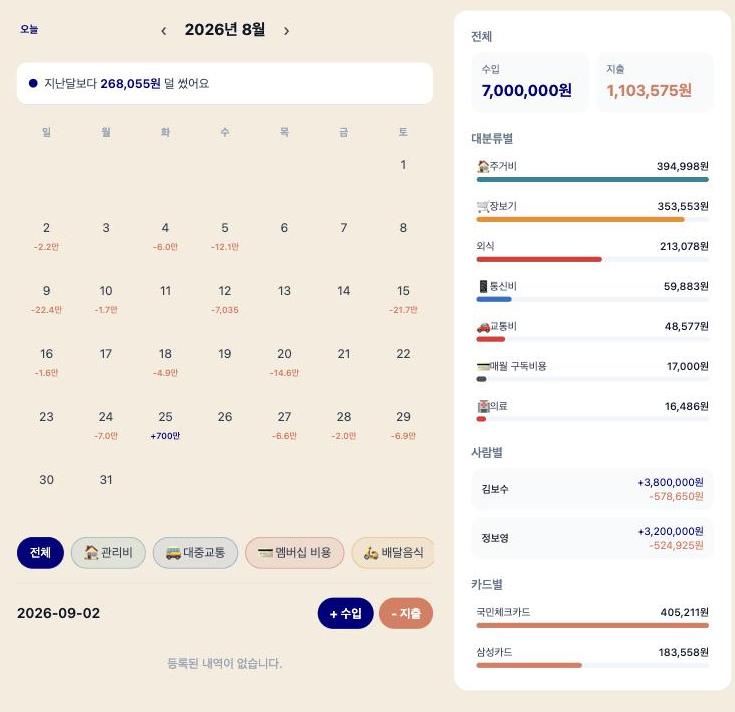
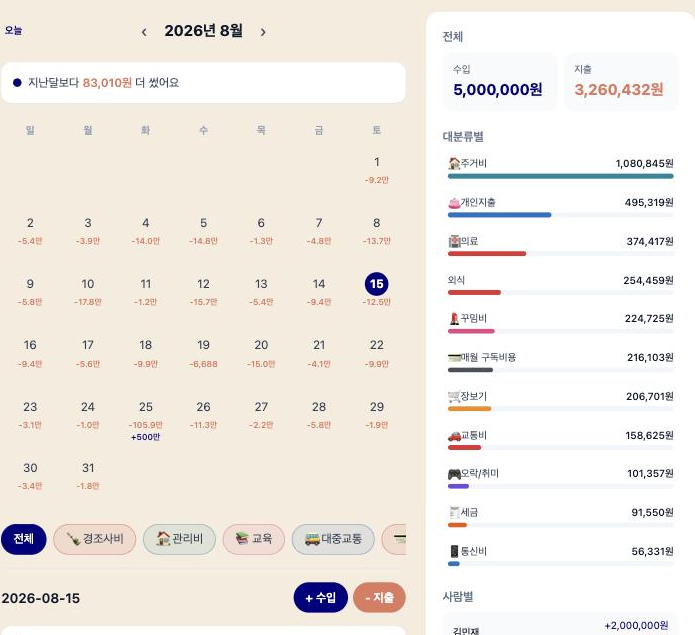
welcome 마케팅 이미지 3장 → 5장으로 확대, 관리자 페이지에 앱으로 돌아가기 버튼 추가
- 캘린더/통계/카테고리 관리 스크린샷과 자산/명세서 업로드 GIF를 테스트 계정
  데이터로 새로 촬영해 welcome 캐러셀에 반영
- 관리자 대시보드 상단에 로그아웃 옆 "앱으로 돌아가기" 버튼 추가 (useGoHome 재사용)

Claude-Session: https://claude.ai/code/session_019RvFZpeu3MEjPGcNT2ZUFz

diff --git a/src/app/admin/(dashboard)/_layout.tsx b/src/app/admin/(dashboard)/_layout.tsx
@@ -4,6 +4,7 @@ import { useEffect, useState } from 'react';
 import { ActivityIndicator, Pressable, Text, View } from 'react-native';
 import Svg, { Circle, Path } from 'react-native-svg';
 
+import { useGoHome } from '@/lib/useGoHome';
 import { useAdminAuthStore } from '@/store/adminAuthStore';
 import { useAuthStore } from '@/store/authStore';
 
@@ -38,6 +39,7 @@ export default function AdminDashboardLayout() {
   const logout = useAdminAuthStore((state) => state.logout);
   const mainLogout = useAuthStore((state) => state.logout);
   const pathname = usePathname();
+  const goHome = useGoHome();
   const [hydrationStarted, setHydrationStarted] = useState(false);
 
   useEffect(() => {
@@ -99,10 +101,16 @@ export default function AdminDashboardLayout() {
               })}
             </View>
           </View>
-          <Pressable onPress={handleLogout} className="flex-row items-center gap-1.5 px-2 py-2">
-            <Ionicons name="log-out-outline" size={16} color="#ffffffb3" />
-            <Text className="text-sm font-medium text-white/70">로그아웃</Text>
-          </Pressable>
+          <View className="flex-row items-center gap-1">
+            <Pressable onPress={goHome} className="flex-row items-center gap-1.5 px-2 py-2">
+              <Ionicons name="arrow-back-outline" size={16} color="#ffffffb3" />
+              <Text className="text-sm font-medium text-white/70">앱으로 돌아가기</Text>
+            </Pressable>
+            <Pressable onPress={handleLogout} className="flex-row items-center gap-1.5 px-2 py-2">
+              <Ionicons name="log-out-outline" size={16} color="#ffffffb3" />
+              <Text className="text-sm font-medium text-white/70">로그아웃</Text>
+            </Pressable>
+          </View>
         </View>
       </View>
       <Slot />

diff --git a/src/app/(auth)/welcome.tsx b/src/app/(auth)/welcome.tsx
@@ -20,9 +20,19 @@ const PREVIEWS = [
     caption: '거래를 처음 기록한 달부터 이번 달까지, 카테고리별 흐름을 표로 한눈에 볼 수 있어요.',
   },
   {
-    image: require('../../../assets/marketing/preview-portfolio.png'),
+    image: require('../../../assets/marketing/preview-portfolio.gif'),
     title: '자산은 모두 한 곳에',
-    caption: '부동산·차량·주식·코인·대출까지, 실시간 시세와 손익률을 함께 확인하세요.',
+    caption: '부동산·차량·주식·코인·금·은·대출까지, 실시간 시세와 1년 추이를 함께 확인하세요.',
+  },
+  {
+    image: require('../../../assets/marketing/preview-categories.png'),
+    title: '내 손에 맞게 정리',
+    caption: '대분류·소분류에 아이콘과 색을 입혀서, 우리 가계부만의 방식으로 정리할 수 있어요.',
+  },
+  {
+    image: require('../../../assets/marketing/preview-import.gif'),
+    title: '명세서는 올리기만',
+    caption: '카드 명세서 파일을 올리면 가맹점 이름을 보고 카테고리까지 자동으로 분류돼요.',
   },
 ];
 
